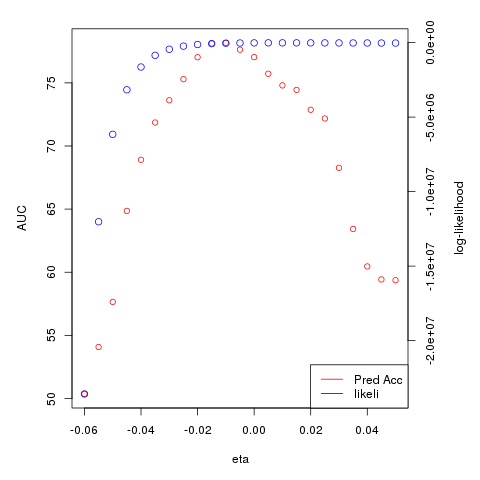
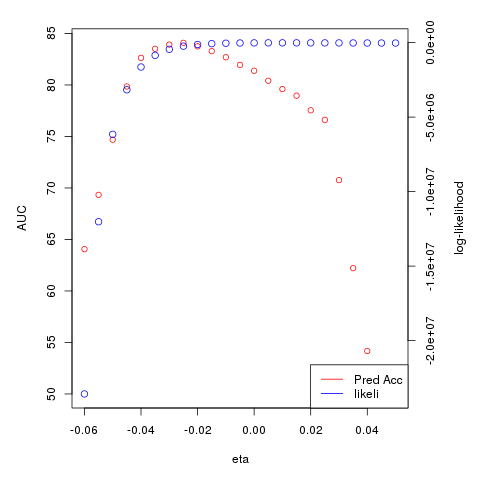
some typos

diff --git a/non-estimated/README.md b/non-estimated/README.md
@@ -460,9 +460,9 @@ aux =sapply(grid, function(eta){
     pdist.new = dist_ordering(pdist.new, Z)
     pdist.new =1/pdist.new
     diag(pdist.new)<-0
+    P  = 1-exp(-pdist.new%*%Z)
     pdist.new = t(sapply(1:nrow(Z), function(r) pdist.new[r, 1:r]%*%Z[1:r, ]))
     pd0= !(pdist.new==0)
-    P  = 1-exp(-pdist.new)
     U <- rExp.mean(pdist.new)
     U[Z==0]<-1
     roc = rocCurves(Z=1*(com>0), Z_cross= Z, P=P, plot=FALSE, bins=400, all=TRUE)
@@ -485,15 +485,16 @@ legend('bottomright', legend = c('Pred Acc', 'likeli'), col=c('red', 'blue'), lt
 dev.off()
 
 > aux[which.max(aux$likeli), ]
-     eta    likeli   auc     thresh tot.inter hold.out pred  pred.all V9
-14 0.005 -13129.72 70.83 0.02255639      3966        0  NaN 0.5590015  0
-         V10 V11       V12
-14 0.5694468   0 0.8426845
+     eta    likeli   auc     thresh tot.inter hold.out pred  pred.all
+14 0.005 -13129.72 80.41 0.03759398      3966        0  NaN 0.7072617
+            V9       V10 V11       V12
+14 0.003441657 0.7526167   0 0.8426845
 > aux[which.max(aux$auc), ]
-     eta    likeli   auc    thresh tot.inter hold.out pred  pred.all V9 V10 V11
-6 -0.035 -407635.3 73.29 0.8546366      3966        0  NaN 0.6802824  0   1   0
-       V12
-6 278.1383
+     eta    likeli   auc   thresh tot.inter hold.out pred  pred.all         V9
+8 -0.025 -113613.5 84.09 0.716792      3966        0  NaN 0.7849218 0.02532242
+  V10 V11      V12
+8   1   0 64.50747
+> 
 
 ```
 
@@ -504,6 +505,7 @@ dev.off()
 Original tree depth
 
 ```r
+
 grid=seq(-.06,0.05, 0.005)
 aux =sapply(grid, function(eta){
     print(eta)
@@ -512,6 +514,7 @@ aux =sapply(grid, function(eta){
     pdist.new = dist_ordering(pdist.new, Z)
     pdist.new =1/pdist.new
     diag(pdist.new)<-0
+    P  = 1-exp(-pdist.new%*%Z)
     zero.r = rep(0, nrow(Z))
     dd2 = lapply(1:ncol(Z), function(r){
         r=Z[,r]
@@ -526,7 +529,6 @@ aux =sapply(grid, function(eta){
     pdist.right= sapply(dd2, function(r) colSums(r))
     pdist.new = pdist.right
     pd0= !(pdist.new==0)
-    P  = 1-exp(-pdist.new)
     U <- rExp.mean(pdist.new)
     U[Z==0]<-1
     roc = rocCurves(Z=1*(com>0), Z_cross= Z, P=P, plot=FALSE, bins=400, all=TRUE)
@@ -547,18 +549,17 @@ axis(side = 4)
 mtext(side = 4, line = 3, 'log-likelihood')
 legend('bottomright', legend = c('Pred Acc', 'likeli'), col=c('red', 'blue'), lty=c(1,1))
 dev.off()
-
 > aux[which.max(aux$likeli), ]
-    eta    likeli  auc     thresh tot.inter hold.out pred pred.all         V9
-15 0.01 -15777.62 74.8 0.02255639      3966        0  NaN 0.580938 0.00199782
-         V10         V11 V12
-15 0.6321206 0.001999818   1
+     eta    likeli  auc     thresh tot.inter hold.out pred  pred.all         V9
+X15 0.01 -15777.62 79.6 0.02005013      3966        0  NaN 0.6984367 0.00199782
+          V10         V11 V12
+X15 0.4962578 0.001999818   1
 > aux[which.max(aux$auc), ]
-     eta    likeli   auc    thresh tot.inter hold.out pred  pred.all         V9
-11 -0.01 -40671.33 78.17 0.1629073      3966        0  NaN 0.7244075 0.01289798
-         V10        V11      V12
-         11 0.9999931 0.01298188 11.88622
-         
+      eta    likeli   auc   thresh tot.inter hold.out pred  pred.all         V9
+X8 -0.025 -236362.1 84.09 0.716792      3966        0  NaN 0.7849218 0.02532242
+   V10        V11      V12
+   X8   1 0.02564855 102.2754
+            
 ```
 
 ![comGMPD file](img/AUC-log-liekihood-originalTree-full-likeli-full-order.png)
